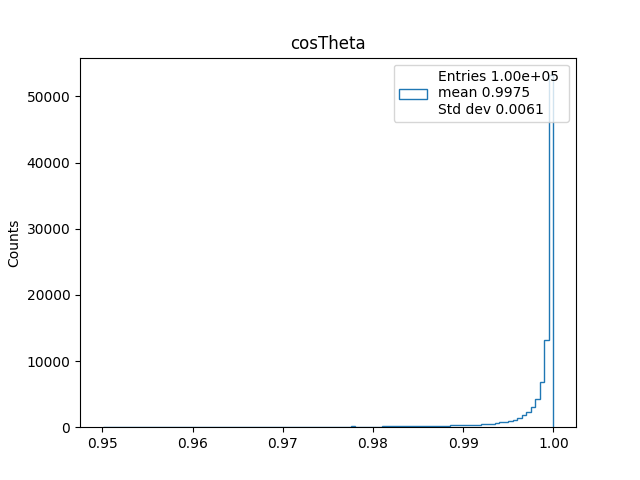
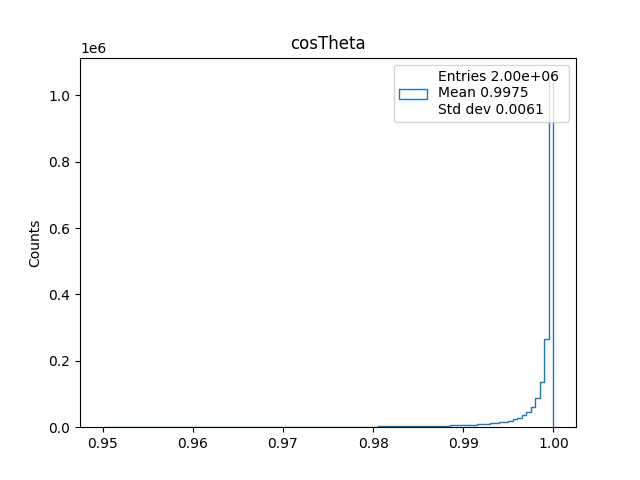
update hist for Signal D0

diff --git a/task2/custom_fnk.py b/task2/custom_fnk.py
@@ -32,7 +32,7 @@ def label_position(list, name):
     return list.index(name)
 
 def make_hist(x, bins, label, entries, mean, std):
-    hist_desc = f'Entries {entries} \nmean {mean:.4f} \nStd dev {std:.4f}'
+    hist_desc = f'Entries {format(entries, ".2e")} \nMean {mean:.4f} \nStd dev {std:.4f}'
     img_path = f'img/{label}.png'
 
     plt.hist(x=x, bins=bins, histtype='step', label=hist_desc)

diff --git a/task2/task2.py b/task2/task2.py
@@ -30,7 +30,7 @@ print(f'Data loaded! Time: {time.time() - start_time:.4f}')
 #print(f'Total entries in file {tot_entries}')
 
 for leaf in labels:
-    entries = 100000
+    entries = 2000000
     leaf_index = label_position(labels, leaf)
     arr = array[:entries, leaf_index]
 
